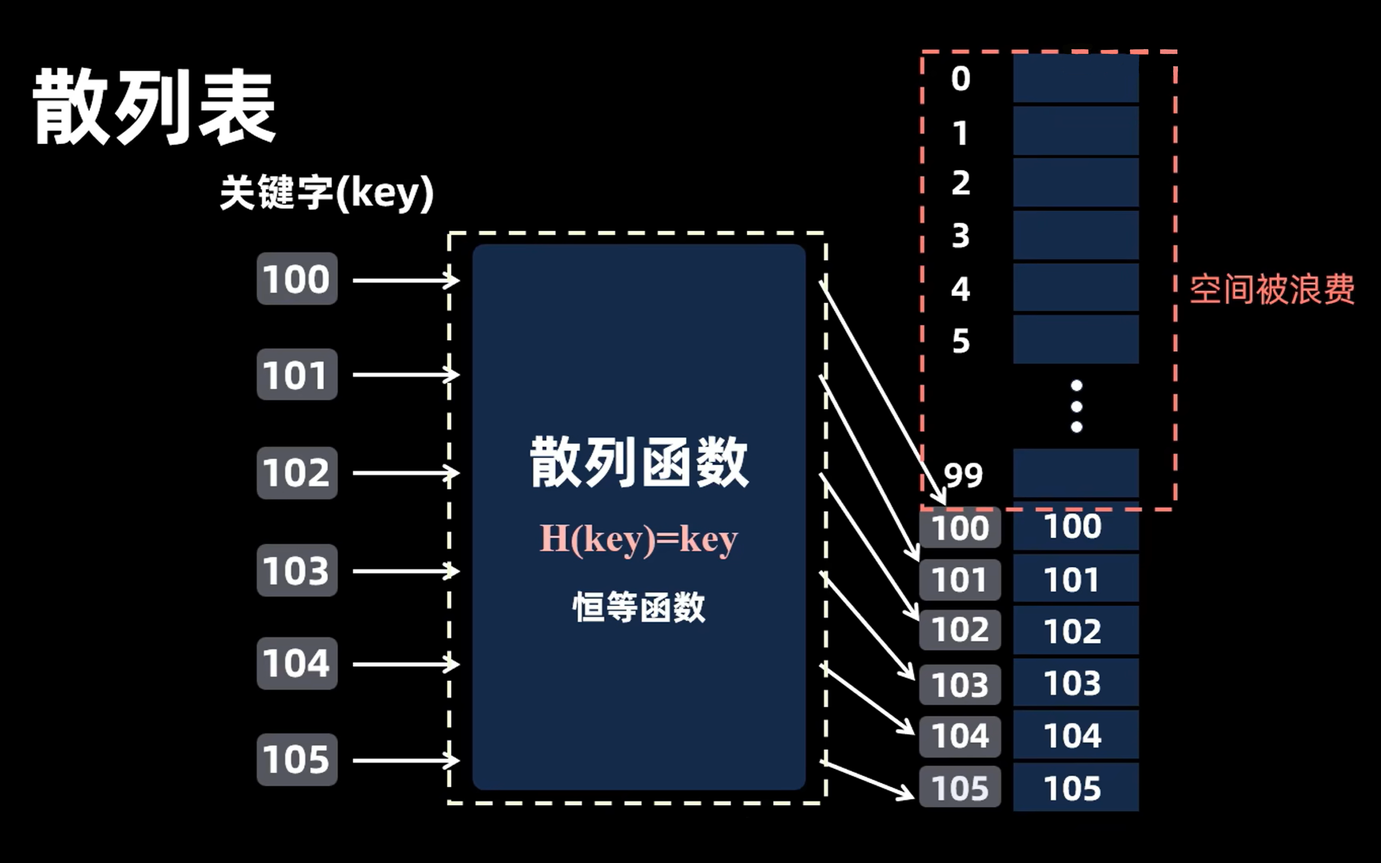
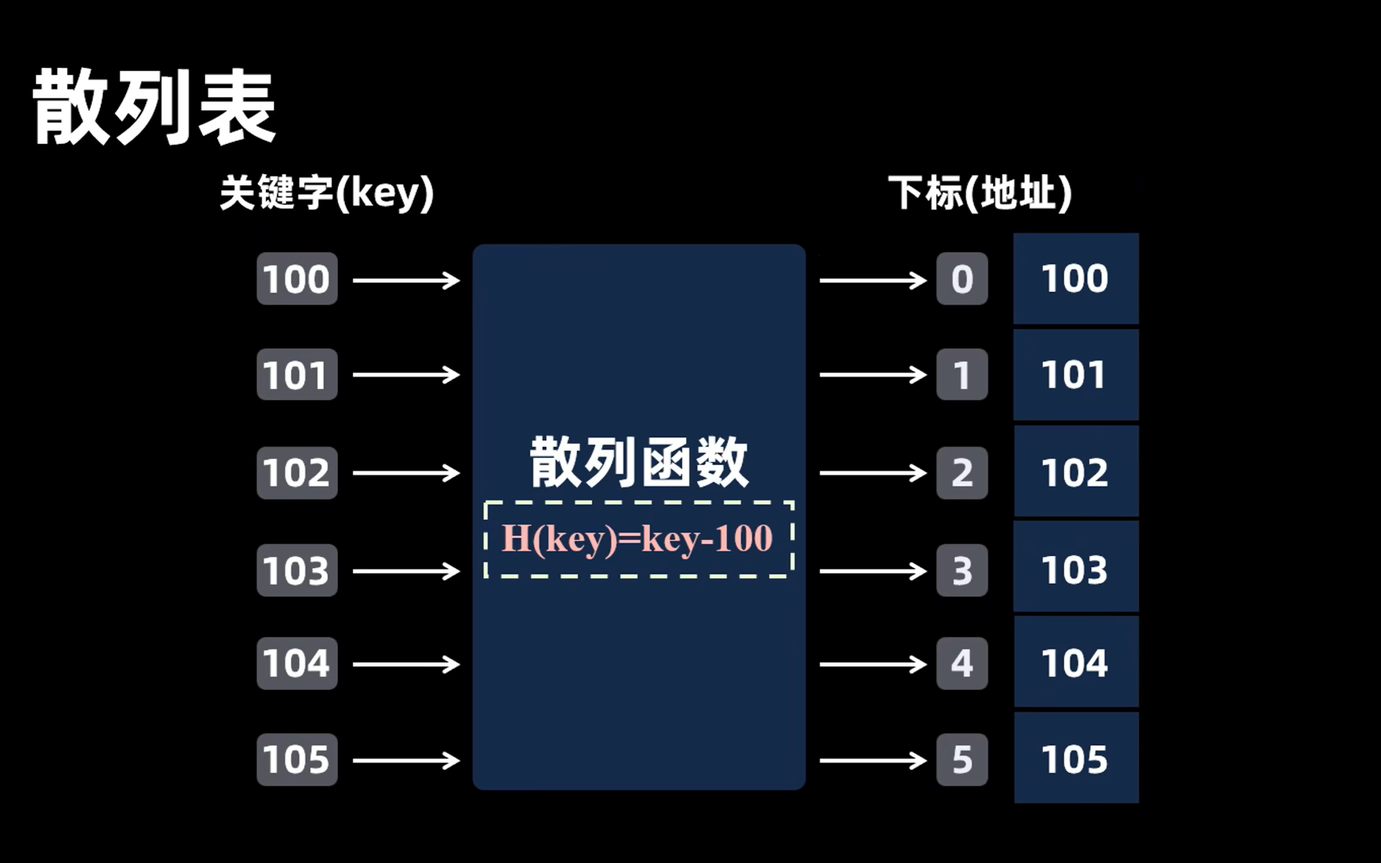
完成数据结构博客

diff --git a/src/content/posts/hash-table/hash-table.md b/src/content/posts/hash-table/hash-table.md
@@ -7,6 +7,220 @@ category: Data Structure
 draft: false
 ---
 
+# 哈希表的基本结构
+
+**哈希表（Hash Table）** 是一种以 “根据关键字快速访问数据” 为核心目标的数据结构，在实际程序设计和工程系统中被广泛采用。与线性表、链表等顺序性较强的数据结构不同，哈希表并不关注数据在逻辑上的排列次序，而是强调如何通过给定的关键字，高效地完成查找、插入与删除等基本操作。在数据规模不断扩大的情况下，这种以时间效率为导向的存储方式显得尤为重要。因此，哈希表常被用作字典、映射、集合等抽象数据类型的底层实现。
+
+为了更好地理解哈希表的设计思想，我们先从一个具体而直观的存储场景入手，分析传统存储方式在查找效率上的局限性。以班级学生信息的存储为例，假设班级中有若干名学生，每位学生都对应一个唯一的学号，但这些学号在数值上通常是 **无序且不连续的** 。如果将学生信息按照输入顺序依次存入数组中，其存储结构可能如下图所示。
+
+![顺序存储图像](src\content\posts\hash-table\顺序存储法1.jpg)
+
+这种顺序存储方式实现简单、结构直观，但在查询操作上存在明显不足。当我们希望根据某个学号查找对应的学生信息时，由于数组下标与学号之间并不存在任何直接关联，程序无法通过学号推断出该学生在数组中的具体位置，只能从数组起始位置开始，依次将目标学号与每个元素进行比较。这种查找方式本质上属于 **顺序查找** ，在最坏情况下需要遍历整个数组，其时间复杂度为 $O(n)$ 。
+
+![顺序存储图像](src\content\posts\hash-table\顺序存储法2.jpg)
+
+显然，随着数据规模的不断增大，这种基于线性扫描的查找方式将难以满足效率要求。查找操作所需的比较次数会随着元素数量线性增长，在频繁查询的场景下，这种开销将迅速累积，成为系统性能的主要瓶颈。此时，即便数据本身的存储方式十分简单，其整体效率也难以令人满意。
+
+因此，我们自然会希望对存储结构进行改进：**在数据存入时就建立起关键字与存储位置之间的某种映射关系** ，使得在查找阶段不再依赖逐个比较，而是能够根据关键字直接确定数据所在的位置。理想情况下，这种定位过程应当只需要常数次访问，从而显著降低查找成本。正是基于这一目标，哈希表引入了 “由关键字直接确定地址” 的思想，通过合适的映射规则，使得查找操作能够一步定位到目标元素，而无需进行多余的比较操作。这一设计思路，为后续高效查找结构的实现奠定了基础。
+
+哈希表正是基于这一思想提出的。它通过引入 **散列函数（哈希函数）**，将关键字映射为数组中的一个存储地址，使查找、插入和删除等操作在理想情况下都能够达到接近 $O(1)$ 的时间复杂度。接下来，我们将从最基础的散列方法出发，依次介绍哈希表中常见的 **直接定址法** 和 **除留余数法** ，以此进一步理解哈希表的基本结构与工作原理。
+
+## 直接定址法
+
+直接定址法是一种最直观、也是最容易理解的散列方法。其核心思想在于：**不再按照数据的输入顺序存储元素，而是由关键字本身直接决定其在数组中的存储位置** 。换言之，关键字与数组下标之间建立了一种确定的一一映射关系。在这种存储方式下，当我们需要查找某个关键字对应的数据时，只需根据关键字计算出数组下标并直接访问该位置即可完成查找，其时间复杂度为 $O(1)$ 。
+
+![直接定址法图像](src\content\posts\hash-table\直接定址法1.jpg)
+
+![直接定址法图像](src\content\posts\hash-table\直接定址法2.jpg)
+
+在最简单的情形下，这种映射关系可以用如下散列函数表示：
+
+$$
+H(key) = key
+$$
+
+该散列函数实际上是一个 **恒等函数** ，即关键字的数值本身就作为数组的下标。只要关键字是唯一的，就可以保证每个数据元素在数组中都有唯一且确定的存储位置。
+
+![直接定址法图像](src\content\posts\hash-table\直接定址法3.jpg)
+
+然而，这种恒等映射在实际应用中往往存在明显问题。如果关键字的取值范围较大，例如学生的学号为 101、102 等，那么为了存储这些数据，就必须开辟一个下标至少达到 102 的数组。这样一来，虽然查找效率极高，但数组前半部分会出现大量未被使用的存储单元，从而导致显著的空间浪费。
+
+![直接定址法图像](src\content\posts\hash-table\直接定址法4.jpg)
+
+为了缓解这一问题，我们可以对关键字进行简单的线性变换。例如，将所有学号统一减去 100，使原本较大的关键字重新映射到一个较小且连续的区间内。通过这种方式，可以在保持 “关键字直接确定地址” 这一思想不变的前提下，大幅减少所需数组的规模。
+
+![直接定址法图像](src\content\posts\hash-table\直接定址法5.jpg)
+
+更一般地，直接定址法并不局限于恒等映射，而是可以采用如下形式的散列函数：
+
+$$
+H(key) = a \cdot key + b
+$$
+
+其中 $a$ 和 $b$ 为常数，用于对关键字进行线性变换。通过合理选择参数，可以将关键字映射到期望的地址区间，从而在一定程度上改善空间利用率。
+
+![直接定址法图像](src\content\posts\hash-table\直接定址法6.jpg)
+
+采用上述线性函数形式进行地址映射的方法，统称为 **直接定址法** 。不过该方法仍然存在一个难以回避的局限性：**它只适用于关键字取值连续或近似连续的场景** 。一旦关键字的分布较为离散或呈随机状态，即使经过线性变换，也往往会导致数组中出现大量空闲位置，空间利用率依然较低。
+
+![直接定址法图像](src\content\posts\hash-table\直接定址法7.jpg)
+
+![直接定址法图像](src\content\posts\hash-table\直接定址法8.jpg)
+
+正因为这一局限性，直接定址法在实际工程中的适用范围相对有限，更多时候需要采用更为灵活的散列方法，在保证查找效率的同时，进一步提升存储空间的利用率。这也正是后续散列方法被提出的重要原因。
+
+## 除留余数法
+
+为了解决直接定址法在关键字分布较为离散时所带来的空间浪费问题，我们可以采用一种更加灵活且应用广泛的散列方法 ———— **除留余数法** 。该方法不再试图让关键字与存储地址保持一一对应，而是通过对关键字进行取模运算，将其映射到一个固定大小的地址空间中，从而在控制存储规模的同时，尽可能保持地址分布的均匀性。其常用的散列函数形式为：
+
+$$
+H(key) = key \bmod p
+$$
+
+其中 $p$ 通常选取为 **不大于表长的最大质数** 。选择质数作为模数的主要原因在于：当关键字分布具有一定规律性时，质数可以有效避免取模结果出现周期性重合，从而在整体上使散列地址分布得更加均匀，降低发生冲突的概率。
+
+![除留余数法图像](src\content\posts\hash-table\除留余数法1.jpg)
+
+在除留余数法中，每个关键字都会先与模数 $p$ 进行取模运算，再将所得结果作为数组下标，确定该元素在哈希表中的存储位置。通过这种方式，即便关键字本身的取值范围很大，也可以被压缩映射到一个相对较小的数组中。
+
+![除留余数法图像](src\content\posts\hash-table\除留余数法2.jpg)
+
+由于取模运算的结果必然落在 $0$ 到 $p-1$ 的区间内，因此所有关键字最终都会被限制在这一有限的地址范围中。这一特性使得哈希表的大小在设计阶段即可被明确控制，从而避免了直接定址法中因关键字范围过大而导致的空间浪费问题。
+
+![除留余数法图像](src\content\posts\hash-table\除留余数法3.jpg)
+
+然而，也正是因为除留余数法将原本范围广泛的关键字映射到一个有限的地址区间，**不同关键字映射到同一存储位置的情况不可避免** 。当两个或多个不同的关键字经过散列函数计算后得到相同的地址时，就会产生 **哈希冲突（Hash Collision）**。
+
+![除留余数法图像](src\content\posts\hash-table\除留余数法4.jpg)
+
+![除留余数法图像](src\content\posts\hash-table\除留余数法5.jpg)
+
+为了定量地描述和分析哈希表中冲突发生的程度，通常会引入 **冲突因子（或装载因子，Load Factor）** 这一概念。冲突因子用于刻画当前表中已存储元素数量与表长之间的关系，是衡量哈希表“拥挤程度”的一个重要指标。
+
+![除留余数法图像](src\content\posts\hash-table\除留余数法6.jpg)
+
+需要注意的是，在 **直接定址法** 中，由于关键字与存储地址之间保持一一对应关系，因此理论上不会产生哈希冲突；而在 **除留余数法** 中，由于取模映射的存在，哈希冲突是结构性地不可避免的，只能通过后续的设计手段进行处理和缓解。
+
+![散列函数总结](src\content\posts\hash-table\散列函数总结1.jpg)
+
+尽管引入冲突因子可以帮助我们评估冲突发生的情况，但它本身并不能直接解决冲突问题。因此在接下来的内容中我们将进一步讨论 **哈希冲突的具体处理方法** ，以保证哈希表在存在冲突的情况下，仍然能够正确且高效地工作。
+
+## 开放定址法
+
+开放定址法是一类常见的哈希冲突处理策略。它的核心思想可以概括为一句话：**当散列地址发生冲突时，不借助额外的存储结构，而是在哈希表内部继续寻找合适的位置存放元素** 。在这种方法中，所有元素始终存放在同一张哈希表中，冲突并不会通过 “挂链” 或 “外接结构” 的方式解决，而是通过不断尝试新的地址来完成插入，这意味着冲突处理过程完全发生在表的内部，哈希表本身既承担数据存储的角色，也承担冲突解决的功能。
+
+这种设计带来的一个直接结果是：**哈希表的物理结构非常紧凑** ，不需要额外的指针或辅助空间，整体实现也相对简单，在空间利用率和内存连续性方面具有一定优势。但与此同时，它也引入了一个隐含要求 ———— 表中元素的位置不再仅由散列函数单独决定，而是与冲突发生后的探测过程密切相关。换言之，元素的最终存放位置不仅取决于其初始散列地址，还取决于插入过程中是否发生冲突以及随后所遵循的探测顺序。
+
+从操作角度来看，开放定址法有一个非常重要的约束：**插入、查找和删除三种操作必须严格遵循同一套探测规则** 。这是因为，一旦某个元素在插入时由于冲突被 “挪” 到了非初始地址的位置，后续的查找和删除操作，只有沿着与插入时完全一致的探测路径进行，才能保证该元素被正确访问。任何规则上的不一致，都可能导致探测在中途提前终止，从而直接破坏哈希表的正确性。
+
+### 线性探测法
+
+线性探测法是开放定址法中最简单、也最直观的一种实现方式，其核心思想可以概括为在发生冲突时按顺序继续向后寻找可用位置。当某个关键字按照散列函数计算得到的地址已被占用时，线性探测法会从该位置开始，**按固定步长（通常为 1）向后逐个检查存储单元** ，直到找到第一个空闲位置为止；若探测到表尾仍未找到空位，则从表头继续探测，整个过程在逻辑上等价于对哈希表进行一次循环意义下的线性扫描。
+
+![线性探测法图像](src\content\posts\hash-table\线性探测法1.jpg)
+
+![线性探测法图像](src\content\posts\hash-table\线性探测法2.jpg)
+
+![线性探测法图像](src\content\posts\hash-table\线性探测法3.jpg)
+
+![线性探测法图像](src\content\posts\hash-table\线性探测法4.jpg)
+
+这种 “顺延式” 的插入策略实现非常简单，不需要复杂的计算，也不依赖额外的数据结构，在实际实现中通常只需对地址不断加一并取模即可完成探测。然而，它的代价同样十分明显：随着元素数量的不断增加，哈希表中容易形成一段段连续被占用的区间。这些连续区间一旦出现，就会使后续的插入和查找操作需要经历更长的探测过程，从而显著降低整体性能。
+
+在查找操作中，线性探测法并不会重新计算新的地址规则，而是 **完全复用插入时所采用的探测路径** 。查找过程从关键字的初始散列地址开始，沿着与插入时一致的线性顺序逐步向后探测，只有在这种规则严格保持一致的前提下，才能保证那些被插入到非初始地址位置的元素仍然可以被正确访问。其具体过程如下：
+
+* 若关键字初始映射到的位置正好存放目标元素，则查找立即成功
+* 若该位置存放的是其他元素，则继续按线性顺序向后探测
+* 若在探测过程中遇到空位置，则可以直接判定查找失败
+
+![线性探测法图像](src\content\posts\hash-table\线性探测法5.jpg)
+
+![线性探测法图像](src\content\posts\hash-table\线性探测法6.jpg)
+
+这里有一个非常重要、也是理解线性探测法正确性的关键结论：**在线性探测法中，一旦查找过程中遇到真正的空位置，就说明该元素一定不存在于表中** 。原因在于，若该元素曾经被插入，它在插入过程中必然会占据探测路径上的第一个空位置，而不会 “跳过” 这个位置继续向后存放。因此，在查找时遇到空位置，恰恰说明此前所有可能的位置都已经被排除，空位置本身就构成了查找失败的充分条件。
+
+![线性探测法图像](src\content\posts\hash-table\线性探测法7.jpg)
+
+![线性探测法图像](src\content\posts\hash-table\线性探测法8.jpg)
+
+由于不同关键字在查找时经历的探测次数并不相同，因此在评价哈希表查找性能时，通常不会只关注最坏情况，而是采用 **平均查找次数** 作为衡量指标，通过对整体探测长度进行统计，来反映哈希表在实际使用中的性能表现。
+
+* **成功查找的平均查找次数**：以表中已经存在的元素为对象，统计每个元素在被成功查找时所需的比较次数，并对这些次数取平均。该指标反映的是在 “查找一定成功” 的前提下，系统平均需要经过多少次探测才能定位到目标元素，能够用来衡量哈希表在正常访问场景下的查找效率。
+
+* **失败查找的平均查找次数**：以散列函数可能映射到的每一个地址为起点，统计从该位置开始，按照线性探测规则直到遇到空位置所需的比较次数，并对这些次数取平均。该指标描述的是在目标元素不存在的情况下，为了确认查找失败所必须经历的平均探测长度，通常比成功查找的平均查找次数更能反映装载因子增大时性能下降的趋势。
+
+![线性探测法图像](src\content\posts\hash-table\线性探测法9.jpg)
+
+![线性探测法图像](src\content\posts\hash-table\线性探测法10.jpg)
+
+![线性探测法图像](src\content\posts\hash-table\线性探测法11.jpg)
+
+通过平均查找次数，我们可以更加直观地评估线性探测法在不同装载因子下的实际性能表现。通常随着装载因子的不断增大，连续探测区间变长，平均查找次数也会随之显著上升。
+
+在线性探测法中，**删除操作是最容易出错、也最容易被忽视的环节** 。如果在删除元素时直接将其所在位置清空，那么在随后的查找过程中，一旦探测到该空位置，就会提前终止查找，从而导致原本确实存在于表中的某些元素被误判为不存在。这类错误往往只在特定的插入与删除顺序组合下才会暴露出来，因此具有较强的隐蔽性。
+
+![线性探测法图像](src\content\posts\hash-table\线性探测法12.jpg)
+
+![线性探测法图像](src\content\posts\hash-table\线性探测法13.jpg)
+
+![线性探测法图像](src\content\posts\hash-table\线性探测法14.jpg)
+
+为了解决这一问题，实际实现中通常采用一种折衷方案：**使用 “删除标记” 而非真正清空元素** 。被删除的位置会被标记为 “曾经使用过” ，在查找过程中不能作为失败的终止条件，而是需要继续向后探测；而在插入新元素时，这类位置又可以被重新利用，与空位置具有相同的插入效果，从而在保证查找正确性的同时，维持线性探测法原有的探测逻辑。
+
+![线性探测法图像](src\content\posts\hash-table\线性探测法15.jpg)
+
+![线性探测法图像](src\content\posts\hash-table\线性探测法16.jpg)
+
+### 平方探测法
+
+平方探测法与线性探测法在整体思想上是类似的，同样属于开放定址法的一种具体实现方式，其基本出发点都是在发生哈希冲突时，通过在哈希表内部继续探测新的位置来完成插入。不同之处在于，平方探测法不再采用固定步长的顺序探测，而是按照平方步长进行跳跃式查找，常见的探测顺序为 $+1, -1, +4, -4, +9, -9, \ldots$ ，即在初始散列地址的基础上，依次尝试偏移量为 $1^2, 2^2, 3^2, \ldots$ 的位置。通过这种方式，平方探测法能够在一定程度上避免线性探测法中容易出现的连续聚集现象，使探测位置在表中分布得更加分散。
+
+然而，由于平方探测法采用的是跳跃式探测，并不会像线性探测那样覆盖所有相邻位置，因此在一般情况下，探测序列可能无法遍历哈希表中的全部单元，从而存在 “找不到空位置” 的风险。针对这一问题，数学上已经给出了相应的结论：**当哈希表的表长取为形如 $4k+3$ 的质数时，在表未被填满的前提下，平方探测法能够保证一定可以找到可用的插入位置** 。因此，在实际使用平方探测法时，通常需要对哈希表的容量进行精心设计，将表长选为满足 $4k+3$ 形式的质数，以确保探测过程的完备性和算法的正确性。其具体探测过程如下图所示：
+
+![平方探测法图像](src\content\posts\hash-table\平方探测法1.jpg)
+
+![平方探测法图像](src\content\posts\hash-table\平方探测法2.jpg)
+
+![平方探测法图像](src\content\posts\hash-table\平方探测法3.jpg)
+
+![平方探测法图像](src\content\posts\hash-table\平方探测法4.jpg)
+
+在查找和删除操作方面，平方探测法同样需要严格遵循与插入操作一致的探测规则，其成功查找与失败查找的平均查找次数等性能分析指标，也可以按照线性探测法中的定义方式进行计算和评估。由于这些概念和分析方法在两种探测策略中具有高度一致性，因此在此不再展开重复说明。
+
+## 拉链法
+
+除了开放定址法之外，处理哈希冲突的另一种常见方法是 **拉链法** 。其基本思想是：当不同的关键字通过散列函数映射到同一个地址时，不再在哈希表内部继续探测新的位置，而是在该地址处额外维护一个链表，将所有映射到该位置的元素依次存放在这条链表中。这样一来，哈希表中的每一个存储单元不再只对应单个元素，而是作为一条链表的表头，用于管理所有具有相同散列地址的元素，从而有效地解决冲突问题。这种方法将冲突的处理从 “表内位置竞争” 转化为 “链表内顺序组织” ，在逻辑上更加清晰，也使得冲突之间彼此独立，不会相互干扰。
+
+![拉链法图像](src\content\posts\hash-table\拉链法1.jpg)
+
+![拉链法图像](src\content\posts\hash-table\拉链法2.jpg)
+
+![拉链法图像](src\content\posts\hash-table\拉链法3.jpg)
+
+![拉链法图像](src\content\posts\hash-table\拉链法4.jpg)
+
+在拉链法中，查找操作的过程相对直观。首先通过散列函数计算出关键字对应的散列地址，直接定位到哈希表中的相应位置；随后，在该位置所对应的链表中按照顺序进行查找，直到找到目标元素或遍历完整条链表为止。由于冲突元素都被集中存放在同一条链表中，因此查找过程被自然地分解为 “定位表项” 和 “顺序查找链表” 两个阶段，前一阶段的时间复杂度通常为常数级，而后一阶段的效率则主要取决于该地址处链表的长度。
+
+![拉链法图像](src\content\posts\hash-table\拉链法5.jpg)
+
+![拉链法图像](src\content\posts\hash-table\拉链法6.jpg)
+
+![拉链法图像](src\content\posts\hash-table\拉链法7.jpg)
+
+在性能分析方面，拉链法的 **成功查找次数** 可以通过元素在链表中的位置来衡量。具体而言，每个元素在其所属链表中的层数（或结点序号）就对应一次成功查找所需的比较次数，对表中所有元素在成功查找时所经历的比较次数求平均，即可得到成功查找的平均查找次数。该指标能够反映在目标元素确实存在的情况下，系统平均需要经过多少次比较才能完成一次查找操作。
+
+![拉链法图像](src\content\posts\hash-table\拉链法8.jpg)
+
+对于 **失败查找次数** ，则可以从散列函数可能映射到的每一个表项出发，统计在对应链表中查找完整条链表后仍未找到目标元素时所需的比较次数，并对这些次数取平均。由于失败查找必须遍历整条链表才能确认目标不存在，因此该指标在很大程度上反映了各个链表长度分布对整体查找性能的影响。
+
+![拉链法图像](src\content\posts\hash-table\拉链法9.jpg)
+
+相较于开放定址法，拉链法在删除操作上更加直观且不易出错。删除某个元素时，只需在其所在的链表中按照链表的常规删除方式，将对应结点从链表中移除即可，不会对其他元素的查找过程产生影响，也不需要额外的删除标记。这种删除方式不会破坏哈希表的整体结构，也不会影响其他关键字的查找路径，是拉链法在实际应用中的一个重要优势。
+
+![拉链法图像](src\content\posts\hash-table\拉链法10.jpg)
+
+![拉链法图像](src\content\posts\hash-table\拉链法11.jpg)
+
 # 哈希表相关教程
 
 ## 哈希表相关视频

diff --git a/src/content/posts/disjoint-set-union.md/disjoint-set-union.md b/src/content/posts/disjoint-set-union.md/disjoint-set-union.md
@@ -7,3 +7,174 @@ category: Data Structure
 draft: false
 ---
 
+# 并查集的基本结构
+
+并查集（Disjoint Set Union，简称 DSU）是一种用于维护若干个 **不相交集合** 的数据结构，主要用于解决 “元素分组” 以及 “分组关系动态变化” 的问题。在实际应用中，我们经常会遇到这样一类需求：系统中存在大量元素，这些元素会随着操作不断地被合并到同一个集合中，同时又需要频繁判断任意两个元素是否属于同一集合。若采用朴素的数据结构来维护这些关系，往往会导致实现复杂、效率低下，而并查集正是为了解决这一类问题而设计的一种高效数据结构。
+
+从实现角度来看，并查集并不是直接存储每个集合中包含了哪些元素，而是通过维护元素之间的 “从属关系” ，间接刻画集合的划分状态。通过合理的数据组织方式，并查集能够在接近常数时间复杂度的情况下完成集合的查询与合并操作，因此在算法竞赛、图论算法以及工程实践中都有着极为广泛的应用。
+
+在并查集中，我们需要用代码实现这样一个集合系统，它主要支持两种基本操作。第一种操作是 **查找操作** ，用于确定某一个节点当前属于哪一个集合；通过查找操作，我们可以判断两个节点是否处于同一个集合之中，这是并查集最核心、也是最基础的功能之一。只要能够准确地完成查找操作，集合的划分状态就能够被正确地反映出来。
+
+![基本操作图像](src\content\posts\disjoint-set-union.md\基本操作1.jpg)
+
+第二种操作是 **合并操作** ，用于将两个节点所在的集合合并为一个新的集合。需要注意的是，合并操作并不是简单地将两个节点直接连接起来，而是将它们各自所属的整个集合进行合并，使得合并后这两个集合中的所有节点都被视为处于同一个集合中。合并操作会改变集合的整体结构，因此如何在保证正确性的前提下高效地完成合并，是并查集设计中的一个关键问题。
+
+![基本操作图像](src\content\posts\disjoint-set-union.md\基本操作2.jpg)
+
+为了高效地实现这两种操作，并查集通常采用 **树型结构** 来表示集合。具体来说，每一个集合都可以表示为一棵树，树中的每一个节点对应一个元素，而不同的集合则对应不同的树。这样一来，所有集合整体上就构成了一片森林。通过这种表示方式，我们可以利用树结构天然的层次关系来组织集合中的元素，从而为后续的查找与合并操作提供清晰的结构基础。
+
+![基本操作图像](src\content\posts\disjoint-set-union.md\基本操作3.jpg)
+
+当使用树型结构表示集合时，一个重要的约定是：**用树的根节点来代表整个集合** 。也就是说，同一棵树中的所有节点都属于同一个集合，而该集合的 “编号” 或 “代表元素” 就是这棵树的根节点。只要两个节点最终指向的是同一个根节点，就可以断定它们属于同一个集合。通过这种方式，集合之间的判定问题被自然地转化为根节点是否相同的问题，大大简化了判断逻辑。
+
+![基本操作图像](src\content\posts\disjoint-set-union.md\基本操作4.jpg)
+
+为了实现查找操作，我们需要为每一个节点维护一个指向其父节点的指针。在这种表示方式中，**非根节点指向自己的父节点，而根节点则指向自身** ，以此作为根节点的判定条件。当我们从某个节点出发，沿着父节点指针不断向上追溯时，最终一定会到达一个指向自身的节点，该节点就是当前节点所属集合的根节点。
+
+![基本操作图像](src\content\posts\disjoint-set-union.md\基本操作5.jpg)
+
+![基本操作图像](src\content\posts\disjoint-set-union.md\基本操作6.jpg)
+
+在具体实现时，我们通常使用一个一维数组 `p` 来存储并查集的结构关系。数组的下标表示节点编号，而数组中对应位置存放的值则表示该节点的父节点编号。通过这种数组表示方式，原本抽象的树结构被压缩成了一种紧凑而高效的存储形式，既便于快速访问，又方便在合并操作中进行修改。
+
+对于根节点而言，其父节点编号等于自身编号，这一点可以作为判断节点是否为根节点的依据；而对于非根节点，其父节点编号则指向树中更高一层的节点。通过不断访问 `p[x]` ，我们就能够逐步向上移动，最终定位到根节点，从而完成查找操作。
+
+![基本操作图像](src\content\posts\disjoint-set-union.md\基本操作7.jpg)
+
+![基本操作图像](src\content\posts\disjoint-set-union.md\基本操作8.jpg)
+
+![基本操作图像](src\content\posts\disjoint-set-union.md\基本操作9.jpg)
+
+对于合并操作而言，其基本思想也十分直观：只需要找到两个集合各自的根节点，然后让其中一个集合的根节点指向另一个集合的根节点即可。通过这种方式，原本两棵独立的树就会被合并为一棵树，从而实现集合的合并。在最基础的并查集中，这种连接方式并不要求特定的顺序，只要保证连接的是根节点即可完成合并。
+
+![基本操作图像](src\content\posts\disjoint-set-union.md\基本操作10.jpg)
+
+![基本操作图像](src\content\posts\disjoint-set-union.md\基本操作11.jpg)
+
+![基本操作图像](src\content\posts\disjoint-set-union.md\基本操作12.jpg)
+
+通过上述结构设计，并查集成功地将集合关系转化为一组父子指针的维护问题，使得 “集合的表示” 与 “操作的实现” 都变得清晰而统一。在此基础之上，我们就可以进一步引入 **路径压缩** 、**按秩合并** 等优化策略，以显著降低树的高度，从而大幅提升并查集在大规模数据场景下的运行效率，为后续更复杂的应用与算法分析奠定坚实基础。
+
+## 路径压缩
+
+在并查集的基本实现中，查找操作是最为频繁的一类操作。如果仅使用最朴素的树结构来维护集合关系，那么在极端情况下，树的高度可能会不断增长，导致一次查找操作需要沿着父节点指针逐层向上追溯，时间复杂度接近线性。这显然会成为性能瓶颈。因此，在并查集的实际实现中，通常会对查找操作进行优化，其中最重要、也是最常用的一种优化策略就是 **路径压缩（Path Compression）**。
+
+我们首先来看一下查找操作的完整代码及其执行过程。这里采用的是一种 **递归式写法**：从当前节点开始，如果该节点不是根节点，就递归地对其父节点执行查找操作，直到最终找到根节点为止。
+
+![路径压缩图像](src\content\posts\disjoint-set-union.md\路径压缩1.jpg)
+
+在上述基础写法中，查找操作虽然能够正确返回集合的根节点，但它并不会改变并查集原有的树结构。也就是说，如果某条查找路径较长，那么之后每一次对这条路径上的节点进行查找时，仍然需要重复经历同样的追溯过程。
+
+为了解决这一问题，我们可以在查找操作中引入一个非常关键、但改动极小的优化。具体来说，只需要将递归函数中的 `return Find(p[x])` 替换为 `return p[x] = Find(p[x])` 。这一改动的含义在于：**在递归返回的过程中，将当前节点的父节点直接修改为集合的根节点** 。也就是说，函数在完成查找任务的同时，顺便对树的结构进行了调整。
+
+为了更直观地理解这一过程，我们结合具体的执行流程来分析。当对某个节点执行查找操作时，递归调用会沿着父节点指针逐层向上，形成一条完整的查找路径；而当递归开始回溯时，每一层返回都会将当前节点的父节点更新为最终找到的根节点。这样一来，原本较长的查找路径就会被 “拉直” ，所有节点都被直接连接到根节点之下。
+
+![路径压缩图像](src\content\posts\disjoint-set-union.md\路径压缩2.jpg)
+
+![路径压缩图像](src\content\posts\disjoint-set-union.md\路径压缩3.jpg)
+
+![路径压缩图像](src\content\posts\disjoint-set-union.md\路径压缩4.jpg)
+
+经过一次查找操作后，这条路径上的节点层次关系会发生显著变化。原本需要沿着父节点指针逐层向上、经过多次跳转才能到达根节点的树形结构，会在路径压缩的作用下被整体“拉直”，路径上的各个节点都会被直接连接到集合的根节点之下，从而使原本较深的查找路径转化为一条高度极低的结构。这种调整并不会改变集合之间的从属关系，却能够有效减少后续查找过程中所需的指针跳转次数，使查找操作的平均开销显著降低。
+
+最终的效果如图所示：原本层次较深、结构相对分散的树形路径被压缩为高度为 2 的紧凑结构。此后，无论从该路径上的哪一个节点开始执行查找操作，都只需经过极少的父节点跳转即可直接到达根节点，查找过程几乎退化为常数时间，从而为并查集在大量连续操作下保持高效性能提供了有力保障。
+
+![路径压缩图像](src\content\posts\disjoint-set-union.md\路径压缩5.jpg)
+
+![路径压缩图像](src\content\posts\disjoint-set-union.md\路径压缩6.jpg)
+
+需要强调的是，路径压缩并不会改变并查集所表示的集合划分结果，它仅仅是对内部结构进行了一次等价变换，从而换取更高的运行效率。配合后续将要介绍的 **按秩合并** 等策略，路径压缩能够使并查集在理论与实践中都表现出极为优秀的性能，其单次操作的均摊时间复杂度可以认为接近常数。
+
+## 按秩合并
+
+下面我们来看一下并查集中 **合并操作** 的完整过程以及对应的实现思想。一次合并操作通常可以分为两个相互衔接的步骤：首先，通过查找操作分别找到两个节点当前所在集合的根节点，以此确定它们各自所属的集合；随后，再将这两个集合合并为一个新的集合。需要注意的是，合并操作的核心并不在于 “连哪两个节点” ，而在于 “以哪一个根节点作为新的集合代表” 。不同的合并方式，会直接影响合并后集合所对应树结构的高度，而树的高度又会进一步影响后续查找操作所需的时间成本。
+
+![按秩合并图像](src\content\posts\disjoint-set-union.md\按秩合并1.jpg)
+
+![按秩合并图像](src\content\posts\disjoint-set-union.md\按秩合并2.jpg)
+
+![按秩合并图像](src\content\posts\disjoint-set-union.md\按秩合并3.jpg)
+
+![按秩合并图像](src\content\posts\disjoint-set-union.md\按秩合并4.jpg)
+
+从直观角度来看，如果在合并两个集合时，将 **高度较高的集合合并到高度较低的集合之下** ，那么合并后形成的新集合，其高度往往会在原有基础上继续增加；相反，如果将高度较低的集合合并到高度较高的集合之下，则通常不会引入额外的高度增长，更有利于保持整体树结构的扁平化。因此为了尽可能避免集合树 “长高” ，在合并操作中有意识地选择合并方向，就成为一种自然且有效的优化思路。
+
+基于这一观察，我们可以采用 **按高度合并** 的策略：在合并两个集合时，比较它们根节点所对应树的高度，将高度较小的集合挂到高度较大的集合之下。这样一来，若两个集合的高度不同，则合并完成后，新集合的高度保持不变，从结构上避免了不必要的高度增长。
+
+![按秩合并图像](src\content\posts\disjoint-set-union.md\按秩合并5.jpg)
+
+![按秩合并图像](src\content\posts\disjoint-set-union.md\按秩合并6.jpg)
+
+如果两个集合的高度恰好相同，那么无论将哪一个集合挂到另一个集合之下，合并后集合的高度都不可避免地会增加 1。在这种情况下，可以任意选择一个集合作为新的根节点。按照上述规则实现的合并策略，通常被称为 **按秩合并** ，其中 “秩” 并不一定严格等同于树的真实高度，而是作为一种用于指导合并方向的近似度量。其对应的完整实现代码如下所示。
+
+![按秩合并图像](src\content\posts\disjoint-set-union.md\按秩合并7.jpg)
+
+![按秩合并图像](src\content\posts\disjoint-set-union.md\按秩合并8.jpg)
+
+需要特别注意的是，当查找操作中引入了 **路径压缩** 优化之后，集合中节点的父子关系会在查找过程中被动态调整，此时我们所维护的 “高度” 信息已经不再反映树的真实高度，而更像是一个历史意义上的参考值，仅用于在合并时给出一个大致合理的方向。
+
+![按秩合并图像](src\content\posts\disjoint-set-union.md\按秩合并9.jpg)
+
+![按秩合并图像](src\content\posts\disjoint-set-union.md\按秩合并10.jpg)
+
+但这并不意味着按高度合并在引入路径压缩后就失去了意义。实际上，即使秩不再精确，只要合并方向在整体上是合理的，按秩合并依然能够有效抑制树高度的增长，与路径压缩相互配合，在实践中表现出极高的效率。
+
+除了按高度合并之外，还可以采用 **按集合大小合并** 的策略，即在合并两个集合时，将元素个数较少的集合合并到元素个数较多的集合之下。与高度不同的是，路径压缩只会改变节点之间的连接关系，并不会影响集合中元素的真实数量，因此集合大小始终是一个准确且稳定的衡量指标。
+
+![按秩合并图像](src\content\posts\disjoint-set-union.md\按秩合并11.jpg)
+
+![按秩合并图像](src\content\posts\disjoint-set-union.md\按秩合并12.jpg)
+
+![按秩合并图像](src\content\posts\disjoint-set-union.md\按秩合并13.jpg)
+
+不过，按集合大小合并也并非完美无缺。在某些特殊情况下，可能会出现 **元素数量较少但树高度反而较高** 的集合被保留下来的情况，从而在合并之后使整体集合树的高度有所增加，这说明集合大小与集合高度之间并不存在严格的一一对应关系。
+
+![按秩合并图像](src\content\posts\disjoint-set-union.md\按秩合并14.jpg)
+
+总体来看，无论是按高度合并还是按集合大小合并，都是非常优秀且实用的合并策略。当它们与路径压缩结合使用时，并查集的查找与合并操作在理论分析与实际运行中都表现出极高的效率。其时间复杂度通常可以用 **反阿克曼函数** 来描述，在人类可实现的计算规模范围内，该函数的取值几乎不会超过 4，因此在实际应用中，完全可以将并查集的操作复杂度近似视为 $O(1)$ 。
+
+![按秩合并图像](src\content\posts\disjoint-set-union.md\按秩合并15.jpg)
+
+## 深度优化
+
+在前面的实现中，我们通常会额外维护一个 **高度数组** 或 **大小数组** ，用来辅助按秩合并或按集合大小合并。事实上，这些信息完全可以合并进并查集最核心的 `p` 数组中，从而进一步简化数据结构的设计。
+
+具体来说，我们可以约定：**对于集合的根节点，`p` 数组中不再存储父节点编号，而是存储一个负数，用来表示该集合的高度或大小** ，而对于普通节点，`p[x]` 仍然表示其父节点的下标。通过这种方式，只使用一个数组就能同时维护父子关系与集合信息。
+
+![深度优化图像](src\content\posts\disjoint-set-union.md\深度优化1.jpg)
+
+在这种设计下，判断一个节点是否为根节点的方式也随之发生变化。由于根节点不再满足 “父节点指向自身” 的条件，而是通过一个负数来标识，因此在查询操作中，需要将原本的判断逻辑修改为：当 `p[x] < 0` 时，说明 `x` 是当前集合的根节点；否则，`p[x]` 表示它的父节点编号。
+
+![深度优化图像](src\content\posts\disjoint-set-union.md\深度优化2.jpg)
+
+需要特别注意的是，在使用负数存储高度或大小时，其数值含义与直觉正好相反。无论是按高度合并还是按集合大小合并，**负数的绝对值越大，表示集合越高或元素数量越多** ，也就是说，数值 “越小” 的负数反而代表 “越大” 的集合。因此在按高度合并的实现中，当两个集合高度相同时，高度的更新应当是减 1 而不是加 1。
+
+同时，在按集合大小合并的实现中，也要注意更新顺序的问题。合并时应当先确定新的根节点，并将两个集合的大小相加，再将结果赋值给新的根节点；若顺序处理不当，很容易导致集合大小统计出错。
+
+![深度优化图像](src\content\posts\disjoint-set-union.md\深度优化3.jpg)
+
+![深度优化图像](src\content\posts\disjoint-set-union.md\深度优化4.jpg)
+
+![深度优化图像](src\content\posts\disjoint-set-union.md\深度优化5.jpg)
+
+![深度优化图像](src\content\posts\disjoint-set-union.md\深度优化6.jpg)
+
+通过这种 “深度优化” 的方式，并查集在保持功能完整的同时，进一步减少了辅助数组的数量，使整体实现更加紧凑、统一。该写法在竞赛和工程实践中都非常常见，也可以看作是并查集的一种标准实现形式。当它与路径压缩以及合理的合并策略结合使用时，既能保证极高的运行效率，又能显著降低实现与维护的复杂度。
+
+# 并查集相关教程
+
+## 并查集相关视频
+
+> 并查集的实现与可视化
+
+<iframe width="100%" height="468" src="//player.bilibili.com/player.html?isOutside=true&aid=114280556925032&bvid=BV1zZRSYUEWV&cid=29491466060&p=1" scrolling="no" border="0" frameborder="no" framespacing="0" allowfullscreen="true"></iframe>
+
+## 并查集相关博客
+
+1. [【OI WiKi】并查集相关知识讲解](https://oi-wiki.org/ds/dsu/)
+
+2. [算法学习笔记(1) : 并查集](https://zhuanlan.zhihu.com/p/93647900)
+
+3. [【算法与数据结构】—— 并查集](https://blog.csdn.net/the_zed/article/details/105126583)
+
+4. [算法学习第十七天：并查集](https://zhuanlan.zhihu.com/p/1888148884469031213)
